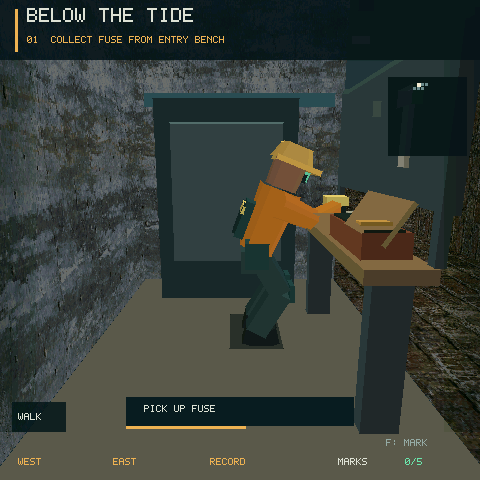
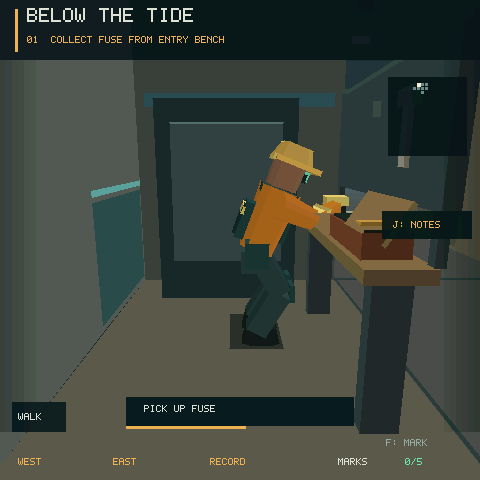
art(sewer): clarify corridor materials and refine worker gear

diff --git a/examples/sewer_labyrinth/main/game_module.c b/examples/sewer_labyrinth/main/game_module.c
@@ -603,11 +603,17 @@ static void add_character(const sl_game_t *g)
     add_beveled(head,.30f,.22f,.12f,.30f,.22f,.27f,hood);
     add_xf_box(xf_mul(head,xf_trans(0,.205f,.04f)),.32f,.035f,.33f,0,hood);
     add_xf_box(xf_mul(head,xf_trans(0,.13f,.123f)),.18f,.06f,.025f,0,(Color){27,43,48,255});
+    add_xf_box(xf_mul(head,xf_trans(0,.205f,-.135f)),.24f,.035f,.018f,0,stripe);
+    add_xf_box(xf_mul(torso,xf_trans(0,.445f,0)),.25f,.06f,.26f,0,pack);
     for(int side=0;side<2;++side){
         add_beveled(xf_mul(root,bone_frame(pose.shoulder[side],pose.elbow[side])),
                     .12f,.17f,.28f,.13f,.16f,-.14f,coat);
         add_beveled(xf_mul(root,bone_frame(pose.elbow[side],pose.hand[side])),
                     .10f,.12f,.28f,.10f,.12f,-.14f,coat);
+        add_xf_box(xf_mul(root,bone_frame(pose.elbow[side],pose.hand[side])),
+                    .123f,.045f,.123f,-.10f,stripe);
+        add_xf_box(xf_mul(torso,xf_trans(side?.115f:-.115f,.26f,.142f)),
+                    .045f,.29f,.022f,0,pack);
         sl_vec3_t hand=pose.hand[side],ankle=pose.ankle[side],knee=pose.knee[side];
         add_xf_box(xf_mul(root,xf_trans(hand.x,hand.y,hand.z)),.11f,.10f,.12f,0,boot);
         add_xf_box(xf_mul(root,bone_frame(pose.hip[side],pose.knee[side])),.14f,.36f,.15f,-.18f,trouser);
@@ -894,6 +900,20 @@ static bool flooded_branch(const sl_game_t *g,int x,int z)
            (x==14&&z>=9&&z<=13&&!g->east);
 }
 
+/* Flush wall details use one inward-facing quad, with the same winding as
+ * the room lintels. Keep them off the wall plane to avoid painter ties. */
+static void add_wall_panel(int side,float x0,float z0,float x1,float z1,
+                           float lo,float hi,float inset,float offset,Color color)
+{
+    if(side==0)add_face((sl_vec3_t){x0+offset,lo,z0+inset},(sl_vec3_t){x0+offset,lo,z1-inset},
+        (sl_vec3_t){x0+offset,hi,z1-inset},(sl_vec3_t){x0+offset,hi,z0+inset},color);
+    if(side==1)add_face((sl_vec3_t){x1-offset,lo,z1-inset},(sl_vec3_t){x1-offset,lo,z0+inset},
+        (sl_vec3_t){x1-offset,hi,z0+inset},(sl_vec3_t){x1-offset,hi,z1-inset},color);
+    if(side==2)add_face((sl_vec3_t){x1-inset,lo,z0+offset},(sl_vec3_t){x0+inset,lo,z0+offset},
+        (sl_vec3_t){x0+inset,hi,z0+offset},(sl_vec3_t){x1-inset,hi,z0+offset},color);
+    if(side==3)add_face((sl_vec3_t){x0+inset,lo,z1-offset},(sl_vec3_t){x1-inset,lo,z1-offset},
+        (sl_vec3_t){x1-inset,hi,z1-offset},(sl_vec3_t){x0+inset,hi,z1-offset},color);
+}
 static void add_wall_edge(const sl_game_t *g,int x,int z,int side,
                           float x0,float z0,float x1,float z1)
 {
@@ -938,14 +958,32 @@ static void add_wall_edge(const sl_game_t *g,int x,int z,int side,
     float height=cell_at(x,z)=='u'?1.45f:room_height(x,z);
     bool hall=height>4;
     bool service=cell_at(x,z)=='u'||((x==5||x==11)&&z>=11&&z<=12);
-    uint8_t mat=hall||service?0:c=='#'?(x<7?SL_MAT_BRICK:SL_MAT_CONCRETE):SL_MAT_WARNING;
-    Color tint=c=='#'?(Color){88,91,84,255}:(Color){115,91,53,255};
+    uint8_t mat=hall||service||c=='#'?0:SL_MAT_WARNING;
+    Color tint=c=='#'?(x<7?(Color){115,111,91,255}:x>10?(Color){91,117,116,255}:
+                      (Color){100,112,106,255}):(Color){115,91,53,255};
     if(hall)tint=(Color){103,119,113,255};
     else if(service)tint=(Color){78,105,102,255};
-    if(side==0)add_material_box(x0-.12f,z0,x0,z1,0,height,tint,mat);
-    if(side==1)add_material_box(x1,z0,x1+.12f,z1,0,height,tint,mat);
-    if(side==2)add_material_box(x0,z0-.12f,x1,z0,0,height,tint,mat);
-    if(side==3)add_material_box(x0,z1,x1,z1+.12f,0,height,tint,mat);
+    if(c=='#'){
+        /* Solid map walls have no exposed back or top. Two strips retain the
+         * existing depth-sort granularity without submitting hidden faces. */
+        for(int part=0;part<2;++part){
+            float a=part*.5f,b=a+.5f;
+            add_wall_panel(side,side<2?x0:x0+(x1-x0)*a,side<2?z0+(z1-z0)*a:z0,
+                side<2?x1:x0+(x1-x0)*b,side<2?z0+(z1-z0)*b:z1,
+                0,height,0,0,color_scale(tint,side<2?153:204));
+        }
+    }else{
+        if(side==0)add_material_box(x0-.12f,z0,x0,z1,0,height,tint,mat);
+        if(side==1)add_material_box(x1,z0,x1+.12f,z1,0,height,tint,mat);
+        if(side==2)add_material_box(x0,z0-.12f,x1,z0,0,height,tint,mat);
+        if(side==3)add_material_box(x0,z1,x1,z1+.12f,0,height,tint,mat);
+    }
+    if(c=='#'&&!hall&&!service){
+        Color dado=x<7?(Color){74,79,66,255}:(Color){46,77,79,255};
+        Color stripe=x<7?(Color){177,143,77,255}:(Color){91,162,157,255};
+        add_wall_panel(side,x0,z0,x1,z1,.06f,1.06f,.04f,.008f,dado);
+        add_wall_panel(side,x0,z0,x1,z1,1.10f,1.15f,.04f,.008f,stripe);
+    }
     if((side==0||side==1)&&c=='#'){
         float wx=side==0?x0+.025f:x1-.025f;
         Color pipe=x<7?(Color){146,100,63,255}:(Color){79,133,134,255};
@@ -1007,6 +1045,22 @@ static void add_scene(const sl_game_t *g)
     }
     int px=tile_at(g->x),pz=tile_at(g->z);
     if(pz>=9){
+        /* South-bay marker is a large painted landmark, readable from both
+         * log alcoves without a new texture or a screen-space label. */
+        add_face((sl_vec3_t){17.70f,1.62f,32.96f},(sl_vec3_t){19.70f,1.62f,32.96f},
+                 (sl_vec3_t){19.70f,2.64f,32.96f},(sl_vec3_t){17.70f,2.64f,32.96f},(Color){36,65,69,255});
+        static const float bars[7][4]={{0,.74f,.42f,.80f},{0,.40f,.06f,.74f},
+            {.36f,.40f,.42f,.74f},{0,.37f,.42f,.43f},{0,.05f,.06f,.40f},
+            {.36f,.05f,.42f,.40f},{0,0,.42f,.06f}};
+        for(int digit=0;digit<2;++digit)for(int bar=0;bar<7;++bar){
+            unsigned mask=digit?0x6d:0x77;
+            if(!(mask&(1u<<bar)))continue;
+            float x=18.12f+digit*.70f,y=1.73f;
+            add_face((sl_vec3_t){x+bars[bar][0],y+bars[bar][1],32.94f},
+                     (sl_vec3_t){x+bars[bar][2],y+bars[bar][1],32.94f},
+                     (sl_vec3_t){x+bars[bar][2],y+bars[bar][3],32.94f},
+                     (sl_vec3_t){x+bars[bar][0],y+bars[bar][3],32.94f},(Color){220,197,128,255});
+        }
         unsigned mode=site_config(g)->patrol_mode;
         float x0=tile_center(mode?6:4),x1=tile_center(mode?10:12),south=tile_center(14);
         Color track={77,128,128,255};
@@ -1028,12 +1082,17 @@ static void add_scene(const sl_game_t *g)
         float x0=x*SL_TILE,x1=x0+SL_TILE,z0=z*SL_TILE,z1=z0+SL_TILE;
         sl_view_t tile_view=to_view((sl_vec3_t){(x0+x1)*.5f,1.5f,(z0+z1)*.5f});
         if(tile_view.z< -2.7f||fabsf(tile_view.x)>fmaxf(tile_view.z,0)*.85f+3.5f)continue;
-        s_material=(x<7||z<5)?SL_MAT_BRICK:SL_MAT_GRATE;
+        s_material=0;
         bool entry=z==1&&x>=7&&x<=9;
         bool hall=room_height(x,z)>4,duct=cell_at(x,z)=='u';
         bool service=(x==5||x==11)&&z>=11&&z<=12;
         if(entry||hall||duct||service)s_material=0;
         add_walk_floor(x0,z0,x1,z1,entry?(Color){94,91,75,255}:hall?(Color){79,97,94,255}:floor,0);
+        if(!entry&&!hall&&!duct&&!service){
+            Color joint={44,60,57,255};
+            add_floor(x0,z0,x1,z0+.024f,.006f,joint);
+            add_floor(x0,z0,x0+.024f,z1,.006f,joint);
+        }
         s_material=0;
         if(x==site_config(g)->fault_x&&z==3&&g->power){
             add_box(tile_center(x)-.8f,tile_center(z)-.8f,tile_center(x)+.8f,

diff --git a/tests/test_sewer_model.c b/tests/test_sewer_model.c
@@ -64,22 +64,23 @@ static void check_motion(void)
 
 static void check_scene_budget(void)
 {
-    static const int positions[][2]={{8,1},{7,1},{8,6},{8,9},{2,8},{14,8},{8,13},{5,11},{11,11},{4,3},{12,3},{6,10},{6,11}};
-    unsigned max_faces=0;
+    unsigned max_faces=0,views=0;
     for(unsigned site=0;site<SL_SITES;++site)
-    for(unsigned spot=0;spot<sizeof(positions)/sizeof(positions[0]);++spot)
+    for(int state=0;state<2;++state)for(int z=1;z<15;++z)for(int x=1;x<16;++x)
         for(int angle=0;angle<8;++angle)for(int tilt=0;tilt<3;++tilt){
-            sl_game_t g;reset_dispatch(&g,0,site,0,false);g.power=g.pumping=g.west=g.east=true;g.water=0;
-            g.x=tile_center(positions[spot][0]);g.z=tile_center(positions[spot][1]);
+            sl_game_t g;reset_dispatch(&g,0,site,0,false);g.power=g.pumping=g.west=g.east=state;g.water=state?0:1;
+            g.x=tile_center(x);g.z=tile_center(z);
             if(low_passage(g.x,g.z)){g.sneaking=true;g.crouch=1;}
+            if(!movement_ok(&g,g.x,g.z))continue;
             g.yaw=angle*SL_PI*.25f;g.pitch=-.35f+tilt*.35f;place_camera(&g);
             s_cam_x=g.cam_x;s_cam_y=g.cam_y;s_cam_z=g.cam_z;
             s_sy=sinf(g.yaw);s_cy=cosf(g.yaw);s_sp=sinf(g.pitch);s_cp=cosf(g.pitch);
             add_scene(&g);add_character(&g);add_drone(&g);
-            assert(!s_faces_dropped);
+            if(s_faces_dropped)fprintf(stderr,"scene overflow: site=%u state=%d cell=%d,%d angle=%d tilt=%d\n",site,state,x,z,angle,tilt);
+            assert(!s_faces_dropped);++views;
             if((unsigned)s_face_count>max_faces)max_faces=s_face_count;
         }
-    printf("scene budget: %u max faces across 1872 views\n",max_faces);
+    printf("scene budget: %u max faces across %u views\n",max_faces,views);
 }
 
 /* Fine navigation lattice tests actual actor clearance, including furniture,

diff --git a/examples/sewer_labyrinth/scenarios/render_motion.py b/examples/sewer_labyrinth/scenarios/render_motion.py
@@ -15,9 +15,9 @@ from run_game import GenericHostRuntime, prepare_project_assets  # noqa: E402
 
 def look(runtime, direction):
     start, end = (460, 264) if direction < 0 else (264, 460)
-    runtime.pointer(99, start, 235, True)
-    runtime.pointer(99, end, 235, True)
-    runtime.pointer(99, end, 235, False)
+    runtime.pointer(99, start, 275, True)
+    runtime.pointer(99, end, 275, True)
+    runtime.pointer(99, end, 275, False)
 
 
 def main():

diff --git a/examples/sewer_labyrinth/README.md b/examples/sewer_labyrinth/README.md
@@ -233,6 +233,13 @@ the center shortcut shortens the physical return path, not the full replay time.
 模型测试检查六种设施整个周期的碰撞连通性、连续位移、停驻时间、诱饵恢复及凹室避让。
 设备帧率仍需上板测量。
 
+## 走廊材质与工装细节
+
+普通走廊采用低频色块、墙裙、分区色带与地板接缝，减少大面积重复纹理对设备轮廓的干扰。
+西侧为暖灰／黄铜色，东侧为冷灰／青绿色，中央保留泵房的独立结构。
+警示贴图集中用于锁闭门和设备基座；角色增加领口、胸前背带、袖口及安全帽反光带。
+这些细节使用既有绘制路径，不新增纹理，也不扩大固定的 1400 面缓冲。
+
 ## 现场地图与探索记忆
 
 游戏中按 J 打开笔记，A 查看线索，D 查看现场地图；触屏可点击页签，点击页签外关闭。
